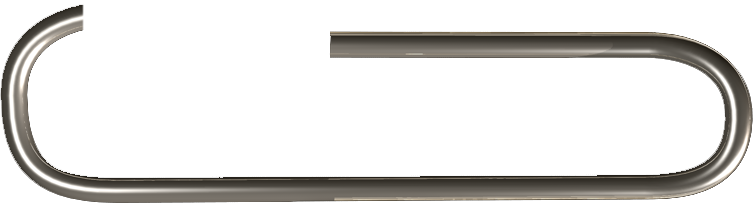
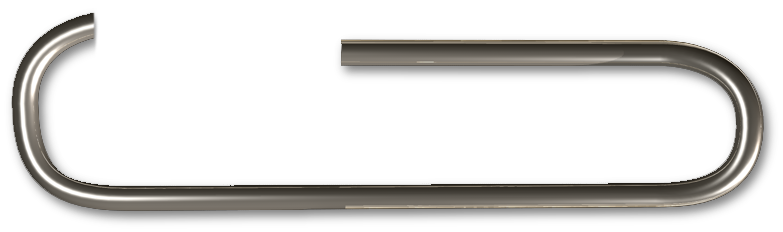
Streetstyle: ajuste nuevo diseño, clip sombreado, cambios shadow y posicion

Changed region(s): [[0.0, 0.0293, 1.0, 0.9951]]

diff --git a/wp-content/themes/kleo-child/assets/js/scripts.js b/wp-content/themes/kleo-child/assets/js/scripts.js
@@ -256,7 +256,7 @@ function ownResize(){
 				$publiSections = $('.medSection .publiGaleria');
 				$diamond = $('.medSection .publiGaleria').eq(num).prev().find('.kleo_text_column').height();
 				$($publiSections[num]).children().append($('<div>', {class: 'logoGaleria'}).css('height',$diamond+'px')
-				.append($('<img>').attr({'src':'https://www.bogadia.com/wp-content/themes/kleo-child/assets/img/clip.png'}).css({'width':'22%', 'margin-left':'-83%','margin-top':'-22%'})));
+				.append($('<img>').attr({'src':'https://www.bogadia.com/wp-content/themes/kleo-child/assets/img/clip.png'}).css({'width':'22%', 'margin-left':'-83%','margin-top':'-27%'})));
 
 			}
 			//tamaño del cajon de descripcion-publi

diff --git a/wp-content/themes/kleo-child/style.css b/wp-content/themes/kleo-child/style.css
@@ -2984,7 +2984,7 @@ left: auto !important;
 }
 .descriptionStreetStyle ins{
 	display: block;
-	box-shadow: -2px -2px 5px -1px black;
+	box-shadow: 3px 2px 5px -1px black;
 	margin:	0 5%;
 }
 	/*Añadidos para nav Imagenes*/
